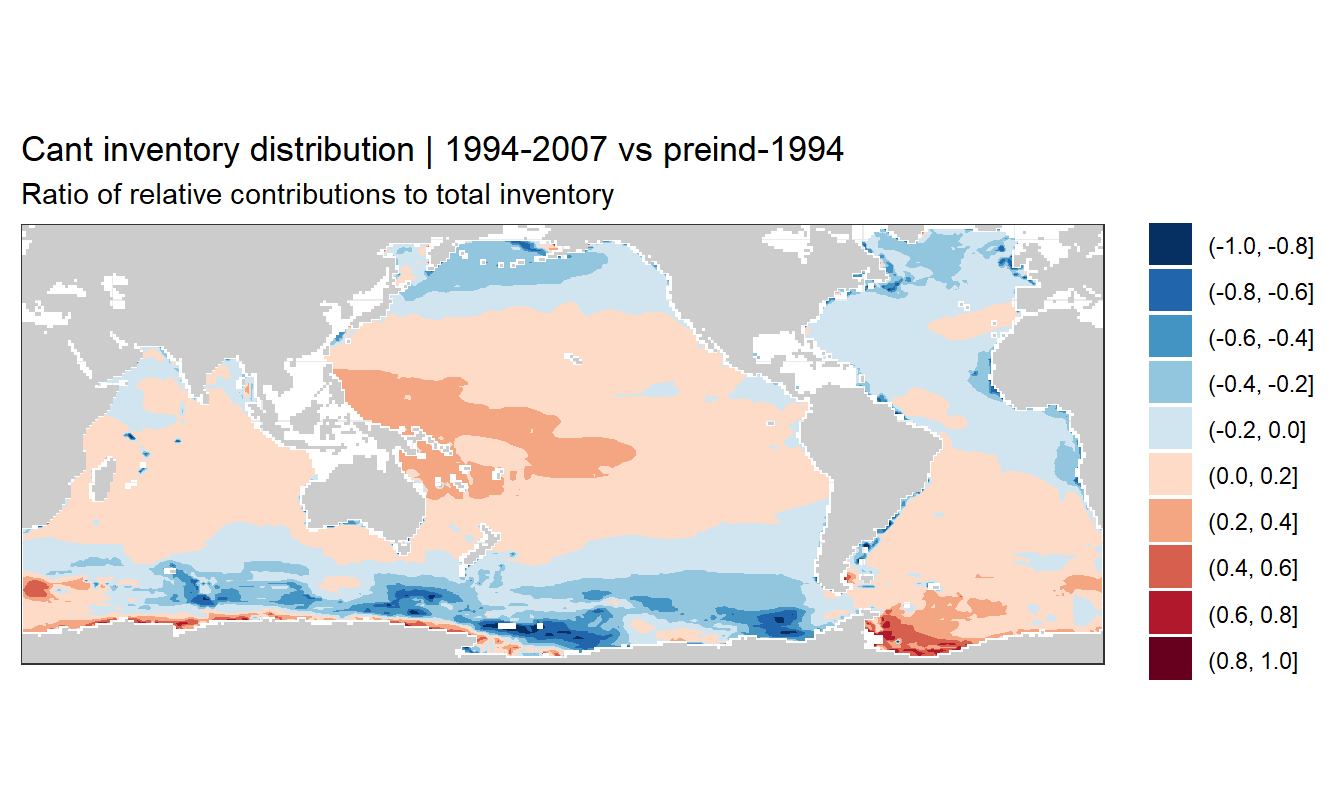
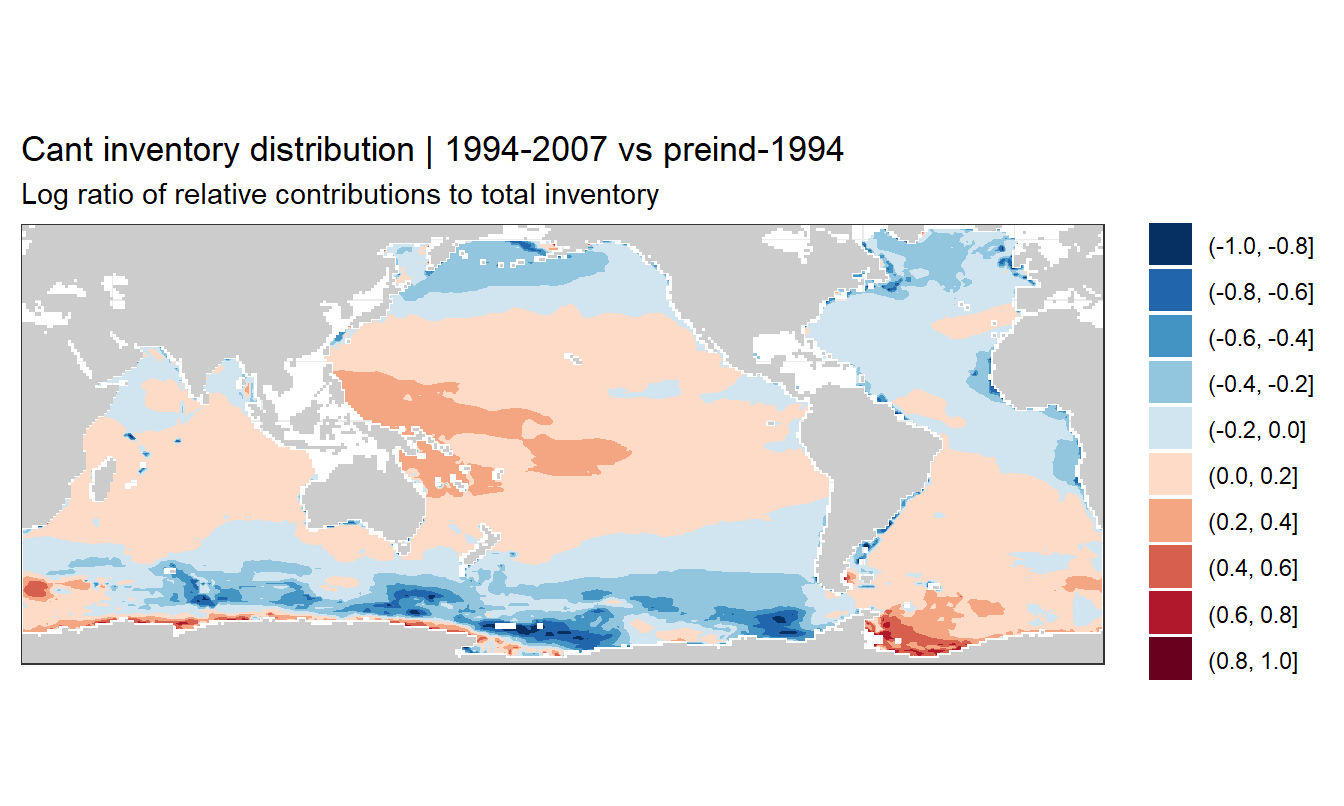
Build site.

diff --git a/docs/analysis.html b/docs/analysis.html
@@ -573,16 +573,16 @@ This reproducible <a href="http://rmarkdown.rstudio.com">R Markdown</a> analysis
 <div class="panel panel-default">
 <div class="panel-heading">
 <p class="panel-title">
-<a data-toggle="collapse" data-parent="#workflowr-checks" href="#strongRepositoryversionstrongahrefhttpsgithubcomjensdanielmuellerCanteMLRtree7c669697d3d162967da2253efe68ebf0264df007targetblank7c66969a"> <span class="glyphicon glyphicon-ok text-success" aria-hidden="true"></span> <strong>Repository version:</strong> <a href="https://github.com/jens-daniel-mueller/Cant_eMLR/tree/7c669697d3d162967da2253efe68ebf0264df007" target="_blank">7c66969</a> </a>
+<a data-toggle="collapse" data-parent="#workflowr-checks" href="#strongRepositoryversionstrongahrefhttpsgithubcomjensdanielmuellerCanteMLRtree5842a923bb0df3cbdf3f8b4e3247c38af25ffd71targetblank5842a92a"> <span class="glyphicon glyphicon-ok text-success" aria-hidden="true"></span> <strong>Repository version:</strong> <a href="https://github.com/jens-daniel-mueller/Cant_eMLR/tree/5842a923bb0df3cbdf3f8b4e3247c38af25ffd71" target="_blank">5842a92</a> </a>
 </p>
 </div>
[2 lines of base64/hex data omitted]
 <div class="panel-body">
 <p>
 Great! You are using Git for version control. Tracking code development and connecting the code version to the results is critical for reproducibility.
 </p>
 <p>
-The results in this page were generated with repository version <a href="https://github.com/jens-daniel-mueller/Cant_eMLR/tree/7c669697d3d162967da2253efe68ebf0264df007" target="_blank">7c66969</a>. See the <em>Past versions</em> tab to see a history of the changes made to the R Markdown and HTML files.
+The results in this page were generated with repository version <a href="https://github.com/jens-daniel-mueller/Cant_eMLR/tree/5842a923bb0df3cbdf3f8b4e3247c38af25ffd71" target="_blank">5842a92</a>. See the <em>Past versions</em> tab to see a history of the changes made to the R Markdown and HTML files.
 </p>
 <p>
 Note that you need to be careful to ensure that all relevant files for the analysis have been committed to Git prior to generating the results (you can use <code>wflow_publish</code> or <code>wflow_git_commit</code>). workflowr only checks the R Markdown file, but you know if there are other scripts or data files that it depends on. Below is the status of the Git repository when the results were generated:
@@ -641,6 +641,40 @@ Message
 </tr>
 </thead>
 <tbody>
+<tr>
+<td>
+Rmd
+</td>
+<td>
+<a href="https://github.com/jens-daniel-mueller/Cant_eMLR/blob/5842a923bb0df3cbdf3f8b4e3247c38af25ffd71/analysis/analysis.Rmd" target="_blank">5842a92</a>
+</td>
+<td>
+jens-daniel-mueller
+</td>
+<td>
+2020-08-14
+</td>
+<td>
+calculated global inventories and replotted relative contributions accordingly
+</td>
+</tr>
+<tr>
+<td>
+html
+</td>
+<td>
+<a href="https://rawcdn.githack.com/jens-daniel-mueller/Cant_eMLR/7c187934242b3d07978240b80e21d8617130164a/docs/analysis.html" target="_blank">7c18793</a>
+</td>
+<td>
+jens-daniel-mueller
+</td>
+<td>
+2020-08-14
+</td>
+<td>
+Build site.
+</td>
+</tr>
 <tr>
 <td>
 Rmd
@@ -870,7 +904,8 @@ added Rmd file
 </div>
 </div>
 <pre class="r"><code>library(tidyverse)
-library(lubridate)</code></pre>
+library(lubridate)
+library(marelac)</code></pre>
 <div id="data-sources" class="section level1">
 <h1><span class="header-section-number">1</span> Data sources</h1>
 <div id="sabine-2004" class="section level2">
@@ -926,19 +961,37 @@ rm(Cant_07_inv, Cant_94_inv)</code></pre>
   )</code></pre>
 <p><img src="figure/analysis.Rmd/Cant_inv_comparison-1.png" width="672" style="display: block; margin: auto;" /></p>
 </div>
+<div id="global-inventories" class="section level2">
+<h2><span class="header-section-number">2.3</span> Global inventories</h2>
+<pre class="r"><code>Cant_inv &lt;- Cant_inv %&gt;% 
+  mutate(surface_area = earth_surf(lat, lon),
+         cant_inv_grid = cant_inv*surface_area)
+
+Cant_inv_global &lt;- Cant_inv %&gt;% 
+  mutate(surface_area = earth_surf(lat, lon),
+         cant_inv_grid = cant_inv*surface_area) %&gt;% 
+  group_by(estimate) %&gt;% 
+  summarise(cant_total = sum(cant_inv_grid)*12*1e-15) %&gt;% 
+  ungroup()
+
+Cant_inv_global</code></pre>
+<pre><code># A tibble: 2 x 2
+  estimate cant_total
+  &lt;chr&gt;         &lt;dbl&gt;
+1 G19            31.3
+2 S04           102. </code></pre>
+</div>
 <div id="relative-inventories" class="section level2">
-<h2><span class="header-section-number">2.3</span> Relative inventories</h2>
+<h2><span class="header-section-number">2.4</span> Relative inventories</h2>
 <pre class="r"><code>Cant_inv_wide &lt;- Cant_inv %&gt;%
-  pivot_wider(values_from = cant_inv,
+  pivot_wider(values_from = c(cant_inv, cant_inv_grid),
               names_from = estimate)
 
 Cant_inv_wide &lt;- Cant_inv_wide %&gt;% 
   drop_na() %&gt;% 
-  mutate(G19_rel = G19 / sum(G19),
-         S04_rel = S04 / sum(S04),
-         cant_ratio = G19 / S04,
+  mutate(G19_rel = cant_inv_grid_G19 / sum(cant_inv_grid_G19),
+         S04_rel = cant_inv_grid_S04 / sum(cant_inv_grid_S04),
          cant_ratio_rel = G19_rel / S04_rel)
-
 
 Cant_inv_rel &lt;- Cant_inv_wide %&gt;% 
   pivot_longer(cols = c(G19_rel, S04_rel),
@@ -949,7 +1002,7 @@ Cant_inv_rel &lt;- Cant_inv_wide %&gt;%
   geom_raster(data = landmask %&gt;% filter(region == &quot;land&quot;),
               aes(lon, lat),
               fill = &quot;grey80&quot;) +
-  geom_raster(aes(lon, lat, fill = cant_inv_rel)) +
+  geom_raster(aes(lon, lat, fill = cant_inv_rel*100)) +
   coord_quickmap(expand = 0) +
   scale_fill_viridis_c() +
   facet_wrap( ~ estimate, ncol = 1) +
@@ -961,7 +1014,7 @@ Cant_inv_rel &lt;- Cant_inv_wide %&gt;%
 <p><img src="figure/analysis.Rmd/Cant_inv_rel_maps-1.png" width="672" style="display: block; margin: auto;" /></p>
 </div>
 <div id="relative-inventory-ratios" class="section level2">
-<h2><span class="header-section-number">2.4</span> Relative inventory ratios</h2>
+<h2><span class="header-section-number">2.5</span> Relative inventory ratios</h2>
 <pre class="r"><code>Cant_inv_wide %&gt;%
   filter(cant_ratio_rel &lt; 10,
          cant_ratio_rel &gt; 0.1) %&gt;% 
@@ -975,7 +1028,7 @@ Cant_inv_rel &lt;- Cant_inv_wide %&gt;%
   coord_quickmap(expand = 0) +
   scale_fill_brewer(palette = &quot;RdBu&quot;, direction = -1) +
   labs(title = &quot;Cant inventory distribution | 1994-2007 vs preind-1994&quot;,
-       subtitle = &quot;Ratio of relative contributions to total inventory&quot;) +
+       subtitle = &quot;Log ratio of relative contributions to total inventory&quot;) +
   theme(
     axis.title = element_blank(),
     axis.text = element_blank(),
@@ -1006,27 +1059,29 @@ attached base packages:
 [1] stats     graphics  grDevices utils     datasets  methods   base     
 
 other attached packages:
- [1] lubridate_1.7.9 forcats_0.5.0   stringr_1.4.0   dplyr_1.0.0    
- [5] purrr_0.3.4     readr_1.3.1     tidyr_1.1.0     tibble_3.0.3   
- [9] ggplot2_3.3.2   tidyverse_1.3.0 workflowr_1.6.2
+ [1] marelac_2.1.10  shape_1.4.4     lubridate_1.7.9 forcats_0.5.0  
+ [5] stringr_1.4.0   dplyr_1.0.0     purrr_0.3.4     readr_1.3.1    
+ [9] tidyr_1.1.0     tibble_3.0.3    ggplot2_3.3.2   tidyverse_1.3.0
+[13] workflowr_1.6.2
 
 loaded via a namespace (and not attached):
- [1] Rcpp_1.0.5         here_0.1           assertthat_0.2.1   rprojroot_1.3-2   
- [5] digest_0.6.25      R6_2.4.1           cellranger_1.1.0   backports_1.1.8   
- [9] reprex_0.3.0       evaluate_0.14      httr_1.4.2         pillar_1.4.6      
-[13] rlang_0.4.7        readxl_1.3.1       rstudioapi_0.11    whisker_0.4       
-[17] blob_1.2.1         rmarkdown_2.3      labeling_0.3       munsell_0.5.0     
-[21] broom_0.7.0        compiler_4.0.2     httpuv_1.5.4       modelr_0.1.8      
-[25] xfun_0.16          pkgconfig_2.0.3    htmltools_0.5.0    tidyselect_1.1.0  
-[29] fansi_0.4.1        viridisLite_0.3.0  crayon_1.3.4       dbplyr_1.4.4      
-[33] withr_2.2.0        later_1.1.0.1      grid_4.0.2         jsonlite_1.7.0    
-[37] gtable_0.3.0       lifecycle_0.2.0    DBI_1.1.0          git2r_0.27.1      
-[41] magrittr_1.5       scales_1.1.1       cli_2.0.2          stringi_1.4.6     
-[45] farver_2.0.3       fs_1.4.2           promises_1.1.1     xml2_1.3.2        
-[49] ellipsis_0.3.1     generics_0.0.2     vctrs_0.3.2        RColorBrewer_1.1-2
-[53] tools_4.0.2        glue_1.4.1         hms_0.5.3          yaml_2.2.1        
-[57] colorspace_1.4-1   rvest_0.3.6        isoband_0.2.2      knitr_1.29        
-[61] haven_2.3.1       </code></pre>
+ [1] Rcpp_1.0.5         here_0.1           utf8_1.1.4         assertthat_0.2.1  
+ [5] rprojroot_1.3-2    digest_0.6.25      R6_2.4.1           cellranger_1.1.0  
+ [9] backports_1.1.8    reprex_0.3.0       evaluate_0.14      httr_1.4.2        
+[13] pillar_1.4.6       rlang_0.4.7        readxl_1.3.1       rstudioapi_0.11   
+[17] whisker_0.4        blob_1.2.1         rmarkdown_2.3      labeling_0.3      
+[21] munsell_0.5.0      broom_0.7.0        compiler_4.0.2     httpuv_1.5.4      
+[25] modelr_0.1.8       xfun_0.16          pkgconfig_2.0.3    htmltools_0.5.0   
+[29] tidyselect_1.1.0   viridisLite_0.3.0  fansi_0.4.1        crayon_1.3.4      
+[33] dbplyr_1.4.4       withr_2.2.0        later_1.1.0.1      gsw_1.0-5         
+[37] grid_4.0.2         jsonlite_1.7.0     gtable_0.3.0       lifecycle_0.2.0   
+[41] DBI_1.1.0          git2r_0.27.1       magrittr_1.5       seacarb_3.2.13    
+[45] scales_1.1.1       cli_2.0.2          stringi_1.4.6      oce_1.2-0         
+[49] farver_2.0.3       fs_1.4.2           promises_1.1.1     testthat_2.3.2    
+[53] xml2_1.3.2         ellipsis_0.3.1     generics_0.0.2     vctrs_0.3.2       
+[57] RColorBrewer_1.1-2 tools_4.0.2        glue_1.4.1         hms_0.5.3         
+[61] yaml_2.2.1         colorspace_1.4-1   isoband_0.2.2      rvest_0.3.6       
+[65] knitr_1.29         haven_2.3.1       </code></pre>
 </div>
 </div>
 </div>
